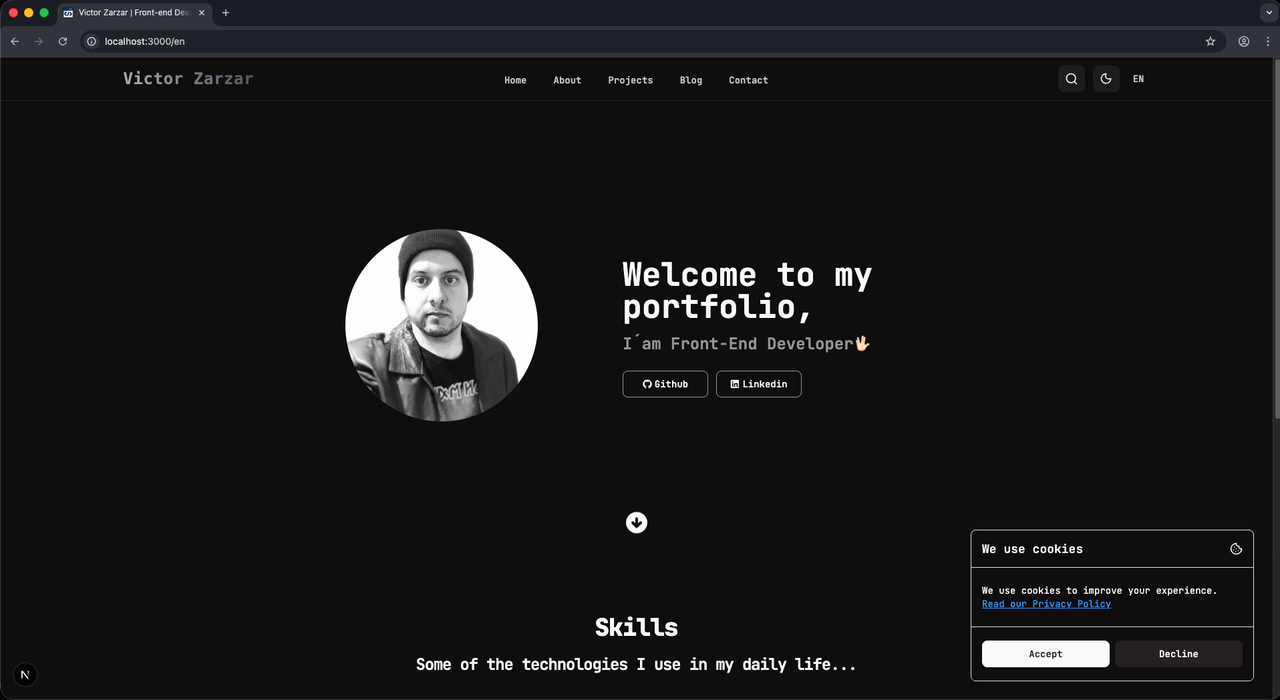
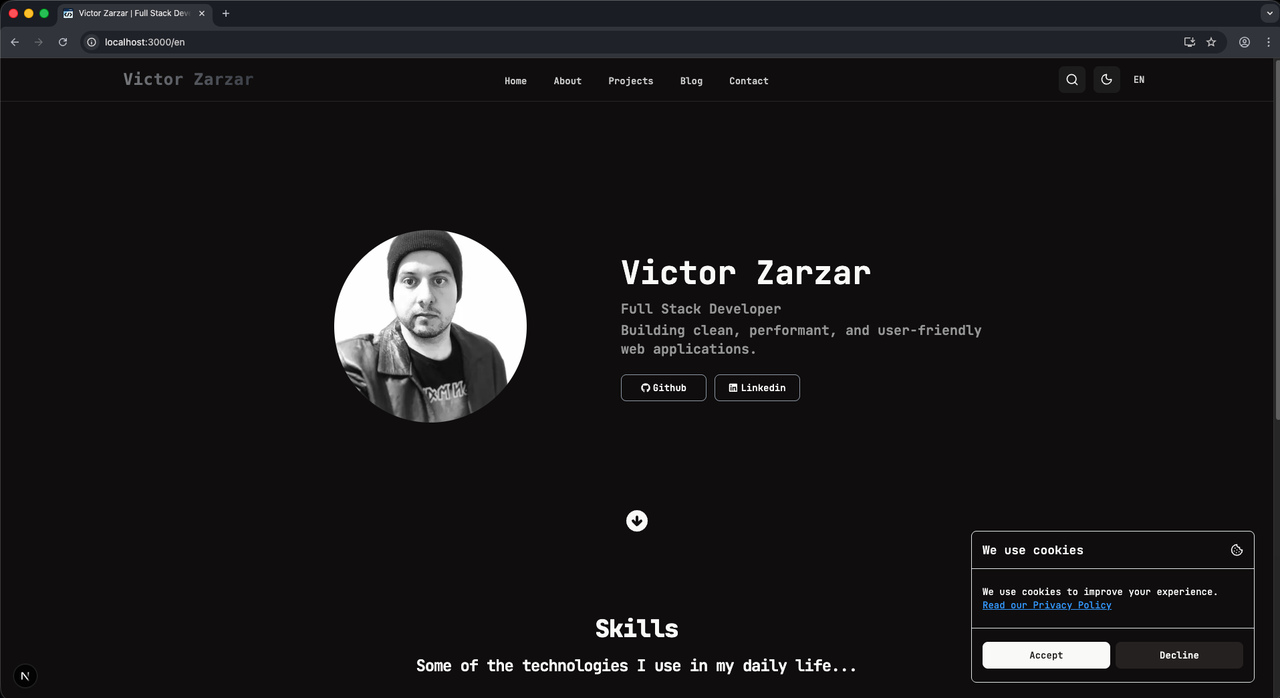
Chore: Update layout

diff --git a/src/app/features/timeline-layout/timeline-layout.tsx b/src/app/features/timeline-layout/timeline-layout.tsx
@@ -123,6 +123,24 @@ export const TimelineLayout = () => {
                           {item.local}
                         </TimelineDescription>
                       )}
+                      {item.tags && item.tags.length > 0 && (
+                        <div className="flex flex-wrap gap-1.5 mt-3">
+                          {item.tags.map((tag) => (
+                            <span
+                              key={tag}
+                              className={cn(
+                                "text-[11px] px-2 py-0.5 rounded-full",
+                                "border border-border/50 bg-muted/50",
+                                "text-muted-foreground tracking-wide",
+                                "transition-colors duration-200",
+                                "group-hover:border-border group-hover:text-foreground",
+                              )}
+                            >
+                              {tag}
+                            </span>
+                          ))}
+                        </div>
+                      )}
                     </div>
                   )}
                 </TimelineItem>

diff --git a/src/app/shared/data/getTimelineData.ts b/src/app/shared/data/getTimelineData.ts
@@ -14,6 +14,15 @@ export function getTimelineData({ t }: GetTimelineDataParams): Experience[] {
       achievements: t("xlabs.achievements"),
       description: t("xlabs.description"),
       local: t("xlabs.local"),
+      tags: [
+        "React",
+        "TypeScript",
+        "Python",
+        "FastAPI",
+        "Nginx",
+        "Docker",
+        "MySQL",
+      ],
     },
     {
       id: 2,
@@ -24,6 +33,7 @@ export function getTimelineData({ t }: GetTimelineDataParams): Experience[] {
       achievements: t("freelance.achievements"),
       description: t("freelance.description"),
       local: t("freelance.local"),
+      tags: ["Tester", "Web", "iOS", "Android"],
     },
     {
       id: 3,

diff --git a/src/app/widgets/header/header-layout.tsx b/src/app/widgets/header/header-layout.tsx
@@ -62,7 +62,13 @@ export default function Header() {
                   {t("h1")}
                 </h1>
 
-                <p className="text-lg mt-4 mb-6 md:text-2xl">
+                <h2 className="text-lg mt-4 md:text-xl">
+                  <span className="font-semibold text-neutral-600 dark:text-neutral-400">
+                    {t("h2")}
+                  </span>
+                </h2>
+
+                <p className="text-lg mt-1 mb-6 md:text-xl">
                   <span className="font-semibold text-neutral-600 dark:text-neutral-400">
                     {t("span")}
                   </span>

diff --git a/src/app/shared/types/get-data/get-data.ts b/src/app/shared/types/get-data/get-data.ts
@@ -36,4 +36,5 @@ export type Experience = {
   achievements?: string;
   description?: string;
   local?: string;
+  tags?: string[];
 };

diff --git a/README.md b/README.md
@@ -263,47 +263,6 @@ make clean
 
 ---
 
-<h2 id="makefile-commands">
-  Makefile Commands Reference
-</h2>
-
-| Command        | Description                                                                 |
-| -------------- | --------------------------------------------------------------------------- |
-| `make install` | Install dependencies using bun                                              |
-| `make dev`     | Run the app locally in development mode                                     |
-| `make prod`    | Run the app in production mode (Mode Build Prod - Test local - Preview)     |
-| `make build`   | Build the Docker image                                                      |
-| `make run`     | Build and run the Docker container (Docker Run + Build - Development local) |
-| `make test`    | Run the automated tests (Isolated Docker container)                         |
-| `make stop`    | Stop and remove the container                                               |
-| `make clean`   | Clean Docker environment and build files                                    |
-| `make logs`    | Display container logs in real-time                                         |
-| `make shell`   | Access container shell (sh)                                                 |
-| `make help`    | Show all available commands                                                 |
-
-### NPM / Bun Scripts Reference
-
-| Script                | Description                        |
-| --------------------- | ---------------------------------- |
-| `bun run dev`         | Start development server           |
-| `bun run build`       | Build for production               |
-| `bun run start`       | Start production server            |
-| `bun run lint`        | Run Biome linter                   |
-| `bun run format`      | Format code with Biome             |
-| `bun run typecheck`   | TypeScript type check (no emit)    |
-| `bun run typegen`     | Generate Next.js types             |
-| `bun test`            | Run tests                          |
-| `bun run test:watch`  | Run tests in watch mode            |
-| `bun run test:update` | Update test snapshots              |
-| `bun run prod`        | Build and start in production mode |
-| `bun run clean`       | Remove node_modules and .next      |
-| `bun run db:generate` | Generate Drizzle migrations        |
-| `bun run db:migrate`  | Run database migrations            |
-| `bun run db:push`     | Push schema to database (dev)      |
-| `bun run db:studio`   | Open Drizzle Studio                |
-
----
-
 <h2 id="screenshots">
   Screenshots
 </h2>
@@ -313,11 +272,11 @@ make clean
 </p>
 
 <p align="center">
-  <img src="https://github.com/user-attachments/assets/5e55bd0e-a9d6-4d33-983a-c4222a3e1445" width="1000" height="600" alt="Projects Section">
+  <img src="https://github.com/user-attachments/assets/1fbac9fb-838c-4683-bd8f-4075db871080" width="1000" height="600" alt="Projects Section">
 </p>
 
 <p align="center">
-  <img src="https://github.com/user-attachments/assets/7afc36b1-d4eb-4dcb-b077-1ccd28c068b5" alt="Dark Mode" width="1000" height="500">
+  <img src="https://github.com/user-attachments/assets/0f8d0978-e8f1-4590-bfc0-8f4a48f68156" alt="Dark Mode" width="1000" height="500">
 </p>
 
 ---
